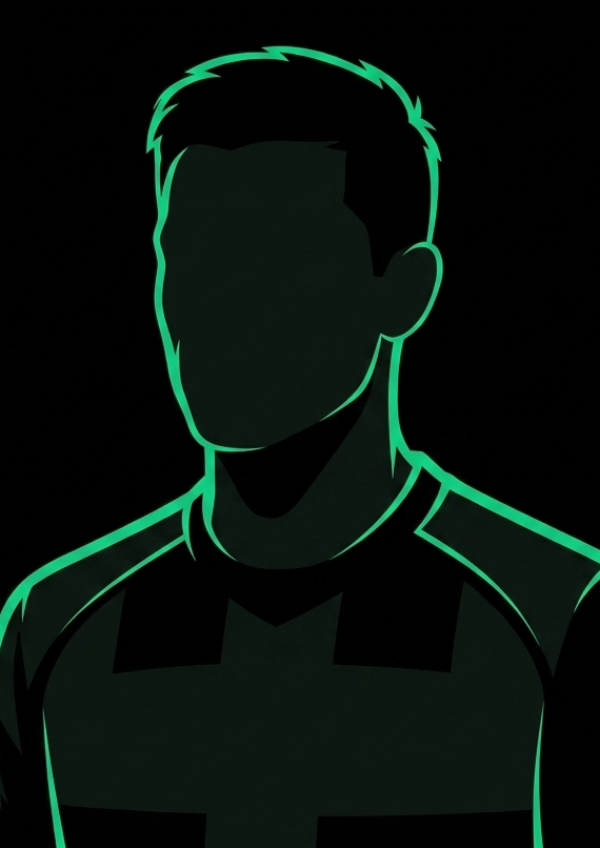
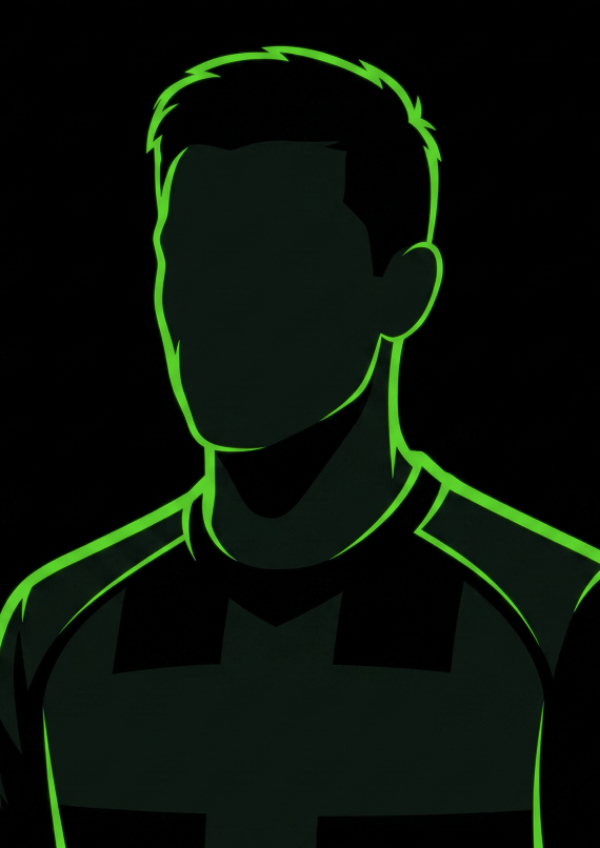
Palette vert gazon : #5DD62C sur noir olivâtre
Adopte la palette de référence. Le vert passe du menthe (#00F58F) au
GAZON (#5DD62C), et le fond du noir pur au noir légèrement olivâtre
(#0F0F0F / cartes #1C201A).

Le noir absolu durcit l'image et fait vibrer un vert saturé posé dessus.
Un noir qui contient déjà une trace de gazon pose le terrain partout sans
qu'on le voie — c'est ce que fait la référence, et c'est ce qui manquait.

Contrastes mesurés sur la nouvelle base :
  vert sur fond            10,15
  vert sur carte            8,63
  texte #F8F8F8 sur fond   18,05
  feu / rouge / bleu / or   8,17 · 4,98 · 7,90 · 13,67

**Changer le vert ne se limite pas au CSS.** Le signe de marque, les
illustrations, la silhouette, le podium et les quatre stickers étaient
CUITS à l'ancienne valeur. Quatorze fichiers reteintés, 755 000 pixels,
par une règle qui ne touche que les pixels verts et conserve la clarté
relative de chacun — donc les dégradés et l'anticrénelage survivent. Un
remplacement à plat les aurait aplatis.

Les sept bannières de partage sont régénérées, et `theme-color` suit dans
le manifeste comme dans le `<head>` : sans ça la barre système d'Android
resterait noire pendant que l'app est olivâtre.

CORRIGE UNE RÉGRESSION QUE J'AI INTRODUITE au commit précédent. Mon
remplacement global de `#FF8A3D` par `var(--feu)` a touché
`COULEURS_EQUIPE`, dont les valeurs sont ÉCRITES EN BASE et validées
telles quelles par les règles Firestore. Une équipe créée avec la
[…]

diff --git a/index.html b/index.html
@@ -6,7 +6,7 @@
   <meta name="apple-mobile-web-app-capable" content="yes">
   <meta name="apple-mobile-web-app-title" content="Kolektif">
   <meta name="apple-mobile-web-app-status-bar-style" content="black-translucent">
-  <meta name="theme-color" content="#000000">
+  <meta name="theme-color" content="#0F0F0F">
   <meta name="description" content="Trouve des joueurs près de chez toi, propose un match, réunis ton équipe.">
   <title>Kolektif</title>
   <!-- Aperçu de partage : le logo + le titre s'affichent quand on envoie le lien
@@ -54,14 +54,16 @@
 
     /* ===== DESIGN SYSTEM V2 — ULTRA PREMIUM ===== */
     :root {
-      /* NOM HÉRITÉ : --orange EST le vert de la marque (#00D88A), pas un orange.
+      /* NOM HÉRITÉ : --orange EST le vert de la marque (#5DD62C), pas un orange.
          Renommer les 132 usages toucherait aussi la classe .btn-orange générée
          dans des chaînes JS — risque réel pour un gain de lisibilité seul. */
-      --orange: #00F58F;
-      --orange2: #5BFFC0;
-      --orange-dark: #00C97A;
-      --orange-glow: rgba(0,245,143,.40);
-      --orange-glow-soft: rgba(0,245,143,.12);
+      --orange: #5DD62C;
+      --orange2: #8BF05A;
+      --orange-dark: #337418;
+      --orange-glow: rgba(93,214,44,.38);
+      --orange-glow-soft: rgba(93,214,44,.12);
+      /* Vert profond : fond des surfaces teintées, jamais du texte. */
+      --vert-profond: #337418;
 
       /* ===== SECOND ACCENT : LE FEU =====
          ATTENTION AU PIÈGE : `--orange` ci-dessus EST LE VERT. `--feu` est
@@ -78,13 +80,16 @@
       --feu-glow: rgba(255,138,61,.34);
       --feu-soft: rgba(255,138,61,.12);
       --chasuble: #FF6A00;
-      --bg: #000000;
-      --surface: #0B0D12;
-      --card: #141821;
-      --card2: #1B2030;
-      --border: #20242F;
-      --border-light: #2C3140;
-      --text: #FFFFFF;
+      /* Noirs LÉGÈREMENT olivâtres, pas neutres. Le noir pur (#000) durcit
+         l'image et fait vibrer un vert saturé ; #0F0F0F teinté de vert pose
+         le gazon partout sans qu'on le voie. */
+      --bg: #0F0F0F;
+      --surface: #161915;
+      --card: #1C201A;
+      --card2: #262B23;
+      --border: #2A2F27;
+      --border-light: #3A4035;
+      --text: #F8F8F8;
       /* Hiérarchie par opacité (logique Apple/HIG dark) : blanc neutre,
          pas de teinte décorative, s'adapte au fond, lisible (AA). */
       --text-sec: rgba(255,255,255,0.62);
@@ -92,8 +97,8 @@
       /* Alias de l'accent — il a longtemps valu #00E676, un vert voisin mais
          DIFFÉRENT : deux verts à 6 % d'écart se lisent comme une erreur, pas
          comme une intention. Une seule couleur d'accent, comme annoncé plus bas. */
-      --green: #00D88A;
-      --green-glow: rgba(0,216,138,.3);
+      --green: #5DD62C;
+      --green-glow: rgba(93,214,44,.3);
       --red: #FF1744;
       --blue: #00B0FF;
       --gold: #FFD700;
@@ -3033,7 +3038,7 @@ const RANGS = [
   { min: 0,    label: 'Recrue',    color: '#A07B5B' },
   { min: 200,  label: 'Stagiaire', color: '#B8C0CC' },
   { min: 500,  label: 'Titulaire', color: '#3BA2FF' },
-  { min: 1000, label: 'Cadre',     color: '#00D88A' },
+  { min: 1000, label: 'Cadre',     color: '#5DD62C' },
   { min: 2000, label: 'Capitaine', color: '#FFC83D' },
   { min: 4000, label: 'Légende',   color: '#FF4D6D' },
 ];
@@ -3121,7 +3126,9 @@ const MONO_SPORT = SPORTS_ACTIFS.length <= 1;
 // foot à 5 → 5, basket 3×3 → 3, padel → 2. C'est ce qui permet au modèle
 // de rester multi-sport alors que le brief parle de foot à 5.
 const NIVEAUX = { debutant: 'Débutant', intermediaire: 'Intermédiaire', confirme: 'Confirmé' };
-const COULEURS_EQUIPE = ['#00D88A', '#00B0FF', 'var(--feu)', '#B36BFF', '#FFD24A', '#FF5A6E'];
+// Valeurs STOCKÉES EN BASE et validées telles quelles par les règles
+// Firestore : ce sont des littéraux, jamais des variables CSS.
+const COULEURS_EQUIPE = ['#5DD62C', '#00B0FF', '#FF8A3D', '#B36BFF', '#FFD24A', '#FF5A6E'];
 // Emblèmes d'équipe. Quatorze tracés + les initiales, six couleurs :
 // quatre-vingt-dix combinaisons, et chacune est une identité distincte.
 //
@@ -3321,7 +3328,7 @@ function _venueHome() {
 
 // ===== THÈMES DE COULEUR =====
 // Identité verrouillée sur le vert — plus de sélecteur de thème.
-// Une seule couleur d'accent, définie une fois dans :root (#00D88A).
+// Une seule couleur d'accent, définie une fois dans :root (#5DD62C).
 const currentTheme = 'vert';
 function applyTheme() {}      // no-op conservé (anciens appels)
 function renderThemeDots() {} // no-op conservé
@@ -3738,7 +3745,7 @@ function rarityClass(overall) {
   return overall >= 80 ? 'gold' : overall >= 70 ? 'silver' : 'bronze';
 }
 function _hexA(hex, a) {
-  hex = (hex || '#00D88A').trim().replace('#', '');
+  hex = (hex || '#5DD62C').trim().replace('#', '');
   if (hex.length === 3) hex = hex.split('').map(x => x + x).join('');
   const n = parseInt(hex, 16);
   return `rgba(${(n >> 16) & 255},${(n >> 8) & 255},${n & 255},${a})`;
@@ -3752,7 +3759,7 @@ function drawRadar(id) {
   const ctx = cv.getContext('2d');
   const W = cv.width, H = cv.height, cx = W/2, cy = H/2, r = Math.min(W, H)/2 - 30, N = stats.length;
   const pt = (ang, rad) => [cx + Math.cos(ang)*rad, cy + Math.sin(ang)*rad];
-  const accent = (getComputedStyle(document.documentElement).getPropertyValue('--orange') || '#00D88A').trim();
+  const accent = (getComputedStyle(document.documentElement).getPropertyValue('--orange') || '#5DD62C').trim();
   function draw(prog) {
     ctx.clearRect(0, 0, W, H);
     for (let lev = 1; lev <= 4; lev++) {
@@ -3883,7 +3890,7 @@ function celebrate(label) {
   haptic([18, 40, 30]); // double-buzz "succès"
   let el = document.getElementById('celebrate');
   if (!el) { el = document.createElement('div'); el.id = 'celebrate'; document.body.appendChild(el); }
-  const cols = ['#00D88A', '#00FF9D', '#7CFFC4', '#FFD700'];
+  const cols = ['#5DD62C', '#8BF05A', '#C6F5A4', '#FFD700'];
   const parts = reduce ? '' : Array.from({ length: 14 }).map(() => {
     const a = Math.random() * Math.PI * 2, d = 58 + Math.random() * 72;
     const sz = 5 + Math.random() * 6;
@@ -4804,7 +4811,7 @@ function carteDefiHTML(d, uid) {
   return `<div class="df-carte${recu ? ' recu' : ''}">
     <div class="df-eyebrow">${recu ? `${ICON.zap} Nouveau défi` : `${ICON.clock} Défi envoyé`}</div>
     <div class="df-vs">
-      <span class="df-eq"><span class="blason" style="width:34px;height:34px;--bc:${d.couleurA || '#00D88A'};font-size:12px">${escapeHtml(initialesEquipe(d.nomA))}</span>${escapeHtml(d.nomA || '')}</span>
+      <span class="df-eq"><span class="blason" style="width:34px;height:34px;--bc:${d.couleurA || '#5DD62C'};font-size:12px">${escapeHtml(initialesEquipe(d.nomA))}</span>${escapeHtml(d.nomA || '')}</span>
       <span class="df-mid">VS</span>
       <span class="df-eq"><span class="blason" style="width:34px;height:34px;--bc:${d.couleurB || '#00B0FF'};font-size:12px">${escapeHtml(initialesEquipe(d.nomB))}</span>${escapeHtml(d.nomB || '')}</span>
     </div>
@@ -6254,7 +6261,7 @@ async function openComposerEquipes(matchId) {
   const m = snap.data();
   eqData = m.equipes && m.equipes.length > 0 ? JSON.parse(JSON.stringify(m.equipes)) : [
     { nom: 'Chasubles', couleur: '#FF6A00', logo: '🟧', joueurs: [] },
-    { nom: 'Verts',     couleur: '#00D88A', logo: '🟩', joueurs: [] },
+    { nom: 'Verts',     couleur: '#5DD62C', logo: '🟩', joueurs: [] },
   ];
   window._composerLieu = m.lieuFinal || (m.creneauxProposes && m.creneauxProposes[0]?.lieu) || 'Lieu à confirmer';
   const inscrits = m.joueursInscrits || [];
@@ -6306,7 +6313,7 @@ function renderTerrainView() {
   function teamBlock(idx, color, defName) {
     const eq = eqData[idx];
     const players = eq.joueurs || [];
-    const col = color === 'orange' ? '#FF6A00' : '#00D88A';
+    const col = color === 'orange' ? '#FF6A00' : '#5DD62C';
     const nom = (eq.nom || defName).toUpperCase();
     return `
       <div class="pitch-team-head">

diff --git a/sw.js b/sw.js
@@ -1,4 +1,4 @@
-const CACHE = 'cs5-v75';
+const CACHE = 'cs5-v76';
 // `og-*.jpg` n'est volontairement PAS ici : ces bannières ne sont lues que
 // par les robots d'aperçu (WhatsApp, iMessage), jamais par l'app. Les
 // précharger coûtait 128 ko à chaque installation pour rien.

diff --git a/DESIGN.md b/DESIGN.md
@@ -10,7 +10,12 @@ garantissent.
 
 ## Le principe
 
-**Noir mat, un seul vert, des formes nettes.**
+**Noir olivâtre, un seul vert gazon, des formes nettes.**
+
+Le fond n'est plus le noir pur : `#0F0F0F` légèrement teinté de vert. Le
+noir absolu durcit l'image et fait *vibrer* un vert saturé posé dessus ;
+un noir qui contient déjà une trace de gazon pose le terrain partout sans
+qu'on le voie.
 
 L'app est vectorielle : formes, traits, typographie. La photographie a
 trois emplois, et **trois seulement** : la carte de joueur, les bannières
@@ -21,7 +26,7 @@ La règle qui tient ces trois ensemble : **une photo n'est jamais de la
 décoration, elle dit où on joue.** Et elle passe toujours sous un voile
 calculé, jamais choisi à l'œil — voir plus bas.
 
-Un seul accent coloré : `#00D88A`. Les autres couleurs ne servent qu'à
+Un seul accent coloré : `#5DD62C`, un **vert gazon** et non un vert menthe. Les autres couleurs ne servent qu'à
 dire quelque chose de précis (rouge = urgence, or/argent/bronze = rang de
 carte).
 
@@ -214,16 +219,23 @@ l'un ni l'autre. Le feu prend la seconde charge.
 
 | | Rôle |
 |---|---|
-| **vert** `--orange` `#00F58F` | action, réussite, progression |
+| **vert** `--orange` `#5DD62C` | action, réussite, progression |
 | **feu** `--feu` `#FF8A3D` | chaleur, rareté, ce qui manque, ce qui brûle |
 
 ⚠ **Le piège de nommage :** `--orange` **est le vert**. Nom hérité,
 non renommable sans casser `.btn-orange` construit dans des chaînes JS.
 Le vrai orange s'appelle `--feu`.
 
-Le vert est passé de `#00D88A` à `#00F58F` : contraste sur noir de
-**11,19 à 14,46**. Plus éclatant *et* plus lisible — ce n'est pas un
-arbitrage, les deux vont dans le même sens sur fond noir.
+Le vert a changé deux fois : `#00D88A` (menthe) → `#00F58F` (menthe vive)
+→ **`#5DD62C` (gazon)**. Contraste sur le fond : **10,15**, texte
+principal `#F8F8F8` à **18,05**.
+
+**Changer le vert ne se limite jamais au CSS.** Le signe de marque, les
+illustrations, les stickers et les bannières de partage étaient *cuits* à
+l'ancienne valeur. Ils ont été reteintés pixel par pixel — 755 000 pixels
+sur quatorze fichiers — par une règle qui ne touche que les pixels
+« verts » et qui conserve la clarté relative de chacun, donc les dégradés
+et l'anticrénelage. Un remplacement à plat les aurait aplatis.
 
 ### La carte collector
 
